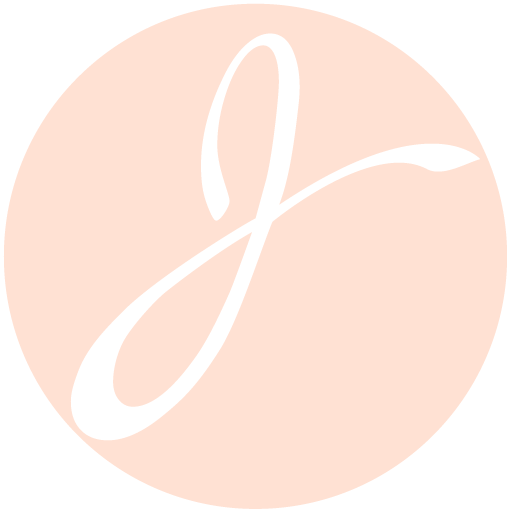
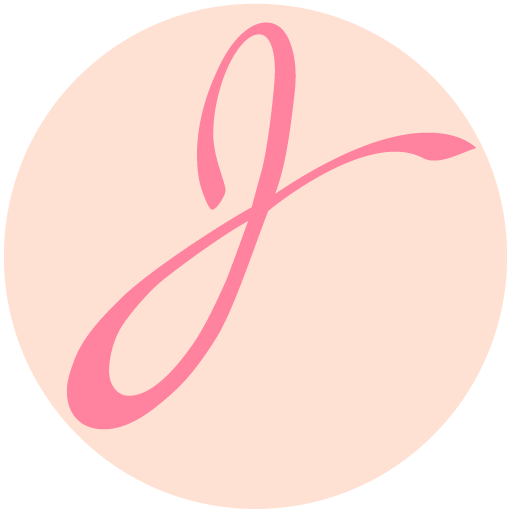
andre farver på splash billede og favikon

Changed region(s): [[0.125, 0.0312, 0.9375, 0.8733]]

diff --git a/index.html b/index.html
@@ -1,19 +1,20 @@
 <!DOCTYPE html>
 <html lang="">
+
 <head>
     <meta charset="utf-8">
     <meta name="viewport" content="width=device-width, initial-scale=1.0">
     <title>Isabella Boisen</title>
     <link rel="stylesheet" href="style.css">
     <link href="https://fonts.googleapis.com/css?family=Dancing+Script|Noto+Serif|Raleway&display=swap" rel="stylesheet">
-    <link rel="apple-touch-icon" sizes="180x180" href="favicon3/on3/apple-touch-icon.png">
-    <link rel="icon" type="image/png" sizes="32x32" href="favicon3/favicon-32x32.png">
-    <link rel="icon" type="image/png" sizes="16x16" href="favicon3/favicon-16x16.png">
-    <link rel="manifest" href="favicon3/site.webmanifest">
-    <link rel="mask-icon" href="favicon3/safari-pinned-tab.svg" color="#5bbad5">
-    <link rel="shortcut icon" href="favicon3/favicon.ico">
+    <link rel="apple-touch-icon" sizes="180x180" href="favicon/apple-touch-icon.png">
+    <link rel="icon" type="image/png" sizes="32x32" href="favicon/favicon-32x32.png">
+    <link rel="icon" type="image/png" sizes="16x16" href="favicon/favicon-16x16.png">
+    <link rel="manifest" href="favicon/site.webmanifest">
+    <link rel="mask-icon" href="favicon/safari-pinned-tab.svg" color="#5bbad5">
+    <link rel="shortcut icon" href="favicon/favicon.ico">
     <meta name="msapplication-TileColor" content="#da532c">
-    <meta name="msapplication-config" content="favicon3/browserconfig.xml">
+    <meta name="msapplication-config" content="favicon/browserconfig.xml">
     <meta name="theme-color" content="#ffffff">
 </head>
 
@@ -65,4 +66,6 @@
     </footer>
 
     <script src="script.js"></script>
-</body></html>
+</body>
+
+</html>

diff --git a/kontakt.html b/kontakt.html
@@ -7,14 +7,14 @@
     <title>Isabella Boisen</title>
     <link rel="stylesheet" href="style.css">
     <link href="https://fonts.googleapis.com/css?family=Dancing+Script|Noto+Serif|Raleway&display=swap" rel="stylesheet">
-    <link rel="apple-touch-icon" sizes="180x180" href="favicon3/on3/apple-touch-icon.png">
-    <link rel="icon" type="image/png" sizes="32x32" href="favicon3/favicon-32x32.png">
-    <link rel="icon" type="image/png" sizes="16x16" href="favicon3/favicon-16x16.png">
-    <link rel="manifest" href="favicon3/site.webmanifest">
-    <link rel="mask-icon" href="favicon3/safari-pinned-tab.svg" color="#5bbad5">
-    <link rel="shortcut icon" href="favicon3/favicon.ico">
+    <link rel="apple-touch-icon" sizes="180x180" href="favicon/apple-touch-icon.png">
+    <link rel="icon" type="image/png" sizes="32x32" href="favicon/favicon-32x32.png">
+    <link rel="icon" type="image/png" sizes="16x16" href="favicon/favicon-16x16.png">
+    <link rel="manifest" href="favicon/site.webmanifest">
+    <link rel="mask-icon" href="favicon/safari-pinned-tab.svg" color="#5bbad5">
+    <link rel="shortcut icon" href="favicon/favicon.ico">
     <meta name="msapplication-TileColor" content="#da532c">
-    <meta name="msapplication-config" content="favicon3/browserconfig.xml">
+    <meta name="msapplication-config" content="favicon/browserconfig.xml">
     <meta name="theme-color" content="#ffffff">
 </head>
 

diff --git a/om.html b/om.html
@@ -7,14 +7,14 @@
     <title>Isabella Boisen</title>
     <link rel="stylesheet" href="style.css">
     <link href="https://fonts.googleapis.com/css?family=Dancing+Script|Noto+Serif|Raleway&display=swap" rel="stylesheet">
-    <link rel="apple-touch-icon" sizes="180x180" href="favicon3/on3/apple-touch-icon.png">
-    <link rel="icon" type="image/png" sizes="32x32" href="favicon3/favicon-32x32.png">
-    <link rel="icon" type="image/png" sizes="16x16" href="favicon3/favicon-16x16.png">
-    <link rel="manifest" href="favicon3/site.webmanifest">
-    <link rel="mask-icon" href="favicon3/safari-pinned-tab.svg" color="#5bbad5">
-    <link rel="shortcut icon" href="favicon3/favicon.ico">
+    <link rel="apple-touch-icon" sizes="180x180" href="favicon/apple-touch-icon.png">
+    <link rel="icon" type="image/png" sizes="32x32" href="favicon/favicon-32x32.png">
+    <link rel="icon" type="image/png" sizes="16x16" href="favicon/favicon-16x16.png">
+    <link rel="manifest" href="favicon/site.webmanifest">
+    <link rel="mask-icon" href="favicon/safari-pinned-tab.svg" color="#5bbad5">
+    <link rel="shortcut icon" href="favicon/favicon.ico">
     <meta name="msapplication-TileColor" content="#da532c">
-    <meta name="msapplication-config" content="favicon3/browserconfig.xml">
+    <meta name="msapplication-config" content="favicon/browserconfig.xml">
     <meta name="theme-color" content="#ffffff">
 </head>
 

diff --git a/portefolie1.html b/portefolie1.html
@@ -7,14 +7,14 @@
     <title>Isabella Boisen</title>
     <link rel="stylesheet" href="style.css">
     <link href="https://fonts.googleapis.com/css?family=Dancing+Script|Noto+Serif|Raleway&display=swap" rel="stylesheet">
-    <link rel="apple-touch-icon" sizes="180x180" href="favicon3/on3/apple-touch-icon.png">
-    <link rel="icon" type="image/png" sizes="32x32" href="favicon3/favicon-32x32.png">
-    <link rel="icon" type="image/png" sizes="16x16" href="favicon3/favicon-16x16.png">
-    <link rel="manifest" href="favicon3/site.webmanifest">
-    <link rel="mask-icon" href="favicon3/safari-pinned-tab.svg" color="#5bbad5">
-    <link rel="shortcut icon" href="favicon3/favicon.ico">
+    <link rel="apple-touch-icon" sizes="180x180" href="favicon/apple-touch-icon.png">
+    <link rel="icon" type="image/png" sizes="32x32" href="favicon/favicon-32x32.png">
+    <link rel="icon" type="image/png" sizes="16x16" href="favicon/favicon-16x16.png">
+    <link rel="manifest" href="favicon/site.webmanifest">
+    <link rel="mask-icon" href="favicon/safari-pinned-tab.svg" color="#5bbad5">
+    <link rel="shortcut icon" href="favicon/favicon.ico">
     <meta name="msapplication-TileColor" content="#da532c">
-    <meta name="msapplication-config" content="favicon3/browserconfig.xml">
+    <meta name="msapplication-config" content="favicon/browserconfig.xml">
     <meta name="theme-color" content="#ffffff">
 </head>
 

diff --git a/portefolie2.html b/portefolie2.html
@@ -7,14 +7,14 @@
     <title>Isabella Boisen</title>
     <link rel="stylesheet" href="style.css">
     <link href="https://fonts.googleapis.com/css?family=Dancing+Script|Noto+Serif|Raleway&display=swap" rel="stylesheet">
-    <link rel="apple-touch-icon" sizes="180x180" href="favicon3/on3/apple-touch-icon.png">
-    <link rel="icon" type="image/png" sizes="32x32" href="favicon3/favicon-32x32.png">
-    <link rel="icon" type="image/png" sizes="16x16" href="favicon3/favicon-16x16.png">
-    <link rel="manifest" href="favicon3/site.webmanifest">
-    <link rel="mask-icon" href="favicon3/safari-pinned-tab.svg" color="#5bbad5">
-    <link rel="shortcut icon" href="favicon3/favicon.ico">
+    <link rel="apple-touch-icon" sizes="180x180" href="favicon/apple-touch-icon.png">
+    <link rel="icon" type="image/png" sizes="32x32" href="favicon/favicon-32x32.png">
+    <link rel="icon" type="image/png" sizes="16x16" href="favicon/favicon-16x16.png">
+    <link rel="manifest" href="favicon/site.webmanifest">
+    <link rel="mask-icon" href="favicon/safari-pinned-tab.svg" color="#5bbad5">
+    <link rel="shortcut icon" href="favicon/favicon.ico">
     <meta name="msapplication-TileColor" content="#da532c">
-    <meta name="msapplication-config" content="favicon3/browserconfig.xml">
+    <meta name="msapplication-config" content="favicon/browserconfig.xml">
     <meta name="theme-color" content="#ffffff">
 </head>
 

diff --git a/portefolie3.html b/portefolie3.html
@@ -7,14 +7,14 @@
     <title>Isabella Boisen</title>
     <link rel="stylesheet" href="style.css">
     <link href="https://fonts.googleapis.com/css?family=Dancing+Script|Noto+Serif|Raleway&display=swap" rel="stylesheet">
-    <link rel="apple-touch-icon" sizes="180x180" href="favicon3/on3/apple-touch-icon.png">
-    <link rel="icon" type="image/png" sizes="32x32" href="favicon3/favicon-32x32.png">
-    <link rel="icon" type="image/png" sizes="16x16" href="favicon3/favicon-16x16.png">
-    <link rel="manifest" href="favicon3/site.webmanifest">
-    <link rel="mask-icon" href="favicon3/safari-pinned-tab.svg" color="#5bbad5">
-    <link rel="shortcut icon" href="favicon3/favicon.ico">
+    <link rel="apple-touch-icon" sizes="180x180" href="favicon/apple-touch-icon.png">
+    <link rel="icon" type="image/png" sizes="32x32" href="favicon/favicon-32x32.png">
+    <link rel="icon" type="image/png" sizes="16x16" href="favicon/favicon-16x16.png">
+    <link rel="manifest" href="favicon/site.webmanifest">
+    <link rel="mask-icon" href="favicon/safari-pinned-tab.svg" color="#5bbad5">
+    <link rel="shortcut icon" href="favicon/favicon.ico">
     <meta name="msapplication-TileColor" content="#da532c">
-    <meta name="msapplication-config" content="favicon3/browserconfig.xml">
+    <meta name="msapplication-config" content="favicon/browserconfig.xml">
     <meta name="theme-color" content="#ffffff">
 </head>
 

diff --git a/portefolie4.html b/portefolie4.html
@@ -7,14 +7,14 @@
     <title>Isabella Boisen</title>
     <link rel="stylesheet" href="style.css">
     <link href="https://fonts.googleapis.com/css?family=Dancing+Script|Noto+Serif|Raleway&display=swap" rel="stylesheet">
-    <link rel="apple-touch-icon" sizes="180x180" href="favicon3/on3/apple-touch-icon.png">
-    <link rel="icon" type="image/png" sizes="32x32" href="favicon3/favicon-32x32.png">
-    <link rel="icon" type="image/png" sizes="16x16" href="favicon3/favicon-16x16.png">
-    <link rel="manifest" href="favicon3/site.webmanifest">
-    <link rel="mask-icon" href="favicon3/safari-pinned-tab.svg" color="#5bbad5">
-    <link rel="shortcut icon" href="favicon3/favicon.ico">
+    <link rel="apple-touch-icon" sizes="180x180" href="favicon/apple-touch-icon.png">
+    <link rel="icon" type="image/png" sizes="32x32" href="favicon/favicon-32x32.png">
+    <link rel="icon" type="image/png" sizes="16x16" href="favicon/favicon-16x16.png">
+    <link rel="manifest" href="favicon/site.webmanifest">
+    <link rel="mask-icon" href="favicon/safari-pinned-tab.svg" color="#5bbad5">
+    <link rel="shortcut icon" href="favicon/favicon.ico">
     <meta name="msapplication-TileColor" content="#da532c">
-    <meta name="msapplication-config" content="favicon3/browserconfig.xml">
+    <meta name="msapplication-config" content="favicon/browserconfig.xml">
     <meta name="theme-color" content="#ffffff">
 </head>
 

diff --git a/portefolie5.html b/portefolie5.html
@@ -7,14 +7,14 @@
     <title>Isabella Boisen</title>
     <link rel="stylesheet" href="style.css">
     <link href="https://fonts.googleapis.com/css?family=Dancing+Script|Noto+Serif|Raleway&display=swap" rel="stylesheet">
-    <link rel="apple-touch-icon" sizes="180x180" href="favicon3/on3/apple-touch-icon.png">
-    <link rel="icon" type="image/png" sizes="32x32" href="favicon3/favicon-32x32.png">
-    <link rel="icon" type="image/png" sizes="16x16" href="favicon3/favicon-16x16.png">
-    <link rel="manifest" href="favicon3/site.webmanifest">
-    <link rel="mask-icon" href="favicon3/safari-pinned-tab.svg" color="#5bbad5">
-    <link rel="shortcut icon" href="favicon3/favicon.ico">
+    <link rel="apple-touch-icon" sizes="180x180" href="favicon/apple-touch-icon.png">
+    <link rel="icon" type="image/png" sizes="32x32" href="favicon/favicon-32x32.png">
+    <link rel="icon" type="image/png" sizes="16x16" href="favicon/favicon-16x16.png">
+    <link rel="manifest" href="favicon/site.webmanifest">
+    <link rel="mask-icon" href="favicon/safari-pinned-tab.svg" color="#5bbad5">
+    <link rel="shortcut icon" href="favicon/favicon.ico">
     <meta name="msapplication-TileColor" content="#da532c">
-    <meta name="msapplication-config" content="favicon3/browserconfig.xml">
+    <meta name="msapplication-config" content="favicon/browserconfig.xml">
     <meta name="theme-color" content="#ffffff">
 </head>
 

diff --git a/portefolie6.html b/portefolie6.html
@@ -7,14 +7,14 @@
     <title>Isabella Boisen</title>
     <link rel="stylesheet" href="style.css">
     <link href="https://fonts.googleapis.com/css?family=Dancing+Script|Noto+Serif|Raleway&display=swap" rel="stylesheet">
-    <link rel="apple-touch-icon" sizes="180x180" href="favicon3/on3/apple-touch-icon.png">
-    <link rel="icon" type="image/png" sizes="32x32" href="favicon3/favicon-32x32.png">
-    <link rel="icon" type="image/png" sizes="16x16" href="favicon3/favicon-16x16.png">
-    <link rel="manifest" href="favicon3/site.webmanifest">
-    <link rel="mask-icon" href="favicon3/safari-pinned-tab.svg" color="#5bbad5">
-    <link rel="shortcut icon" href="favicon3/favicon.ico">
+    <link rel="apple-touch-icon" sizes="180x180" href="favicon/apple-touch-icon.png">
+    <link rel="icon" type="image/png" sizes="32x32" href="favicon/favicon-32x32.png">
+    <link rel="icon" type="image/png" sizes="16x16" href="favicon/favicon-16x16.png">
+    <link rel="manifest" href="favicon/site.webmanifest">
+    <link rel="mask-icon" href="favicon/safari-pinned-tab.svg" color="#5bbad5">
+    <link rel="shortcut icon" href="favicon/favicon.ico">
     <meta name="msapplication-TileColor" content="#da532c">
-    <meta name="msapplication-config" content="favicon3/browserconfig.xml">
+    <meta name="msapplication-config" content="favicon/browserconfig.xml">
     <meta name="theme-color" content="#ffffff">
 </head>
 

diff --git a/portefolieside.html b/portefolieside.html
@@ -7,14 +7,14 @@
     <title>Isabella Boisen</title>
     <link rel="stylesheet" href="style.css">
     <link href="https://fonts.googleapis.com/css?family=Dancing+Script|Noto+Serif|Raleway&display=swap" rel="stylesheet">
-    <link rel="apple-touch-icon" sizes="180x180" href="favicon3/on3/apple-touch-icon.png">
-    <link rel="icon" type="image/png" sizes="32x32" href="favicon3/favicon-32x32.png">
-    <link rel="icon" type="image/png" sizes="16x16" href="favicon3/favicon-16x16.png">
-    <link rel="manifest" href="favicon3/site.webmanifest">
-    <link rel="mask-icon" href="favicon3/safari-pinned-tab.svg" color="#5bbad5">
-    <link rel="shortcut icon" href="favicon3/favicon.ico">
+    <link rel="apple-touch-icon" sizes="180x180" href="favicon/apple-touch-icon.png">
+    <link rel="icon" type="image/png" sizes="32x32" href="favicon/favicon-32x32.png">
+    <link rel="icon" type="image/png" sizes="16x16" href="favicon/favicon-16x16.png">
+    <link rel="manifest" href="favicon/site.webmanifest">
+    <link rel="mask-icon" href="favicon/safari-pinned-tab.svg" color="#5bbad5">
+    <link rel="shortcut icon" href="favicon/favicon.ico">
     <meta name="msapplication-TileColor" content="#da532c">
-    <meta name="msapplication-config" content="favicon3/browserconfig.xml">
+    <meta name="msapplication-config" content="favicon/browserconfig.xml">
     <meta name="theme-color" content="#ffffff">
 </head>
 

diff --git a/style.css b/style.css
@@ -88,7 +88,7 @@ header {
     top: 30px;
     font-family: 'Montserrat', sans-serif;
     line-height: 1.5;
-    color: #898080;
+    color: #c6c9c9;
     cursor: pointer;
 }
 
@@ -124,6 +124,7 @@ header {
 
 nav .ikon_container {
     width: 20vw;
+    margin-right: 30px;
 }
 
 header li {
@@ -225,11 +226,11 @@ footer p {
 /************  2. FORSIDE  ***************/
 
 .splash {
-    background-image: url(billeder/splash_billede3.png);
+    background-image: url(billeder/splash_billede4.png);
     background-size: cover;
     width: 100vw;
     height: 130vw;
-    background-position: 30% 20%;
+    background-position: 23% 20%;
 }
 
 
